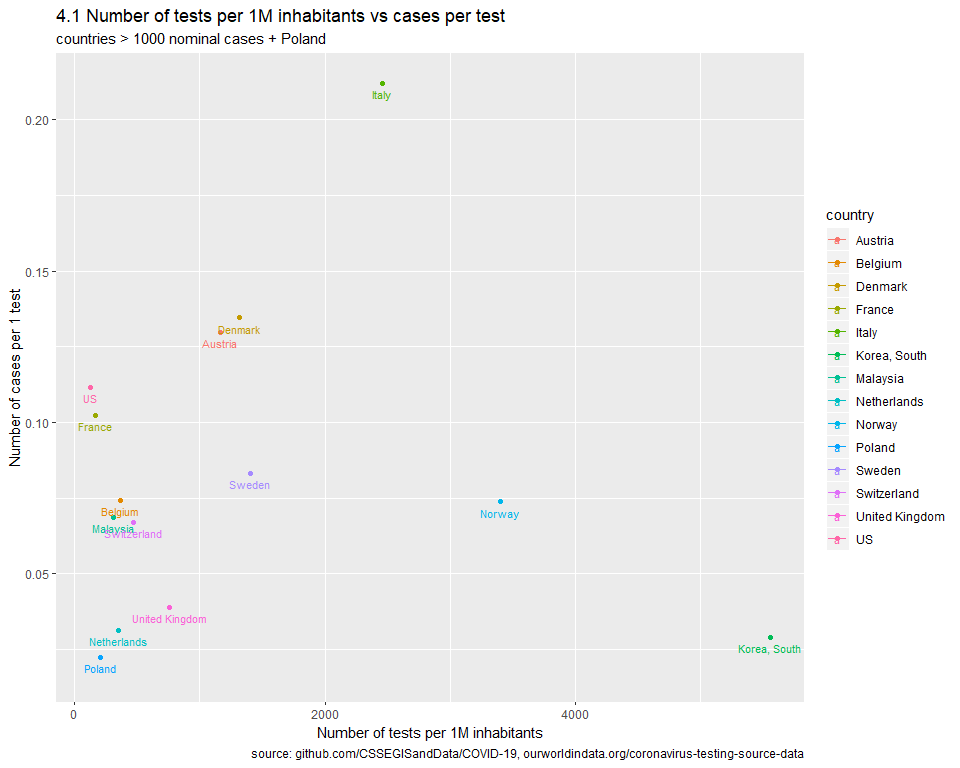
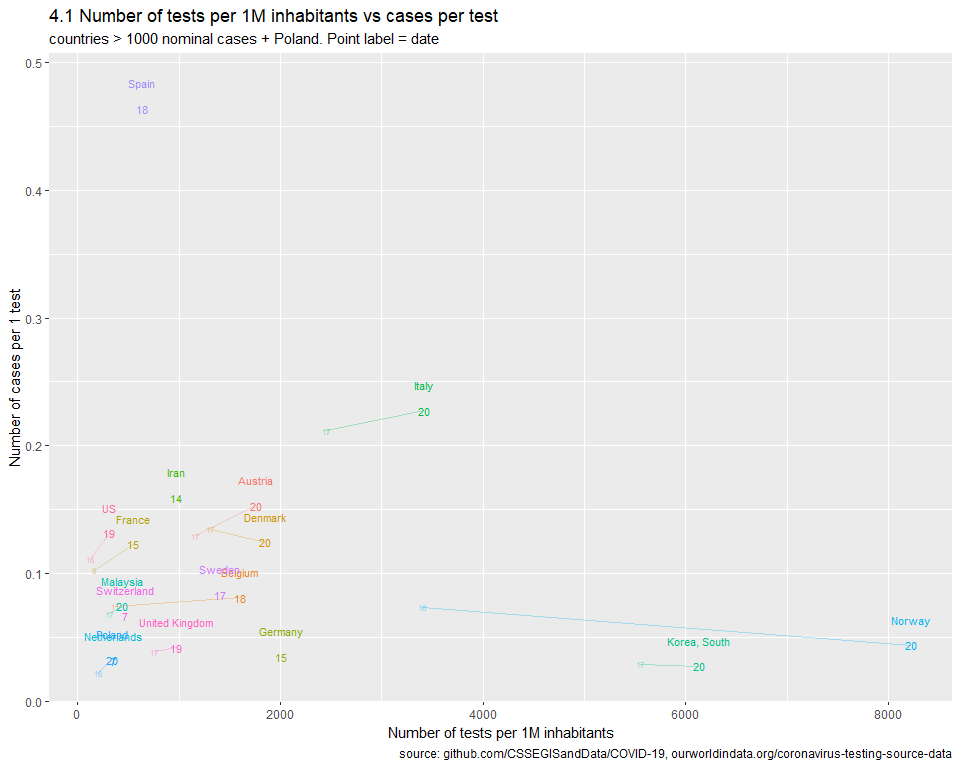
new tests data & chart

diff --git a/main.md b/main.md
@@ -41,7 +41,10 @@ build_data <- function(START_CASES_NO = 1, MIN_CASES = 1000, MAX_CASES = Inf, CH
     rename(date_first = date)
   
   tests <- fread("tests.csv", header = TRUE) %>%
-    mutate(date = as.Date(date, format = "%d.%m.%y"))
+    mutate(date = as.Date(date, format = "%d.%m.%y")) %>%
+    group_by(country) %>%
+    mutate(test_latest = ifelse(date == max(date), 1, 0)) %>%
+    ungroup(.)
   
   conf <- 
     data_conf %>% 
@@ -53,7 +56,7 @@ build_data <- function(START_CASES_NO = 1, MIN_CASES = 1000, MAX_CASES = Inf, CH
     left_join(., tests) %>%
     mutate(tests_per_1M = tests/pop) %>%
     mutate(cases_per_test = value/tests) %>%
-    select(-date, -date_first, -pop)
+    select(-date_first, -pop)
 
   conf_filtered <- 
     conf %>% 
